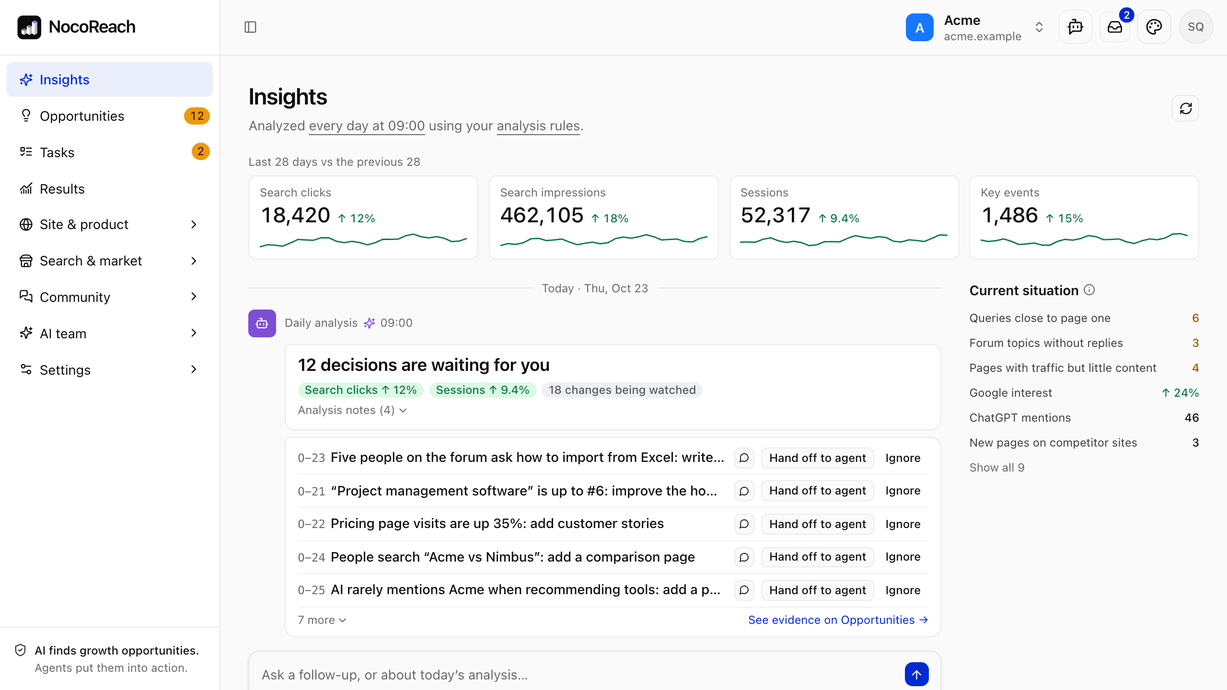
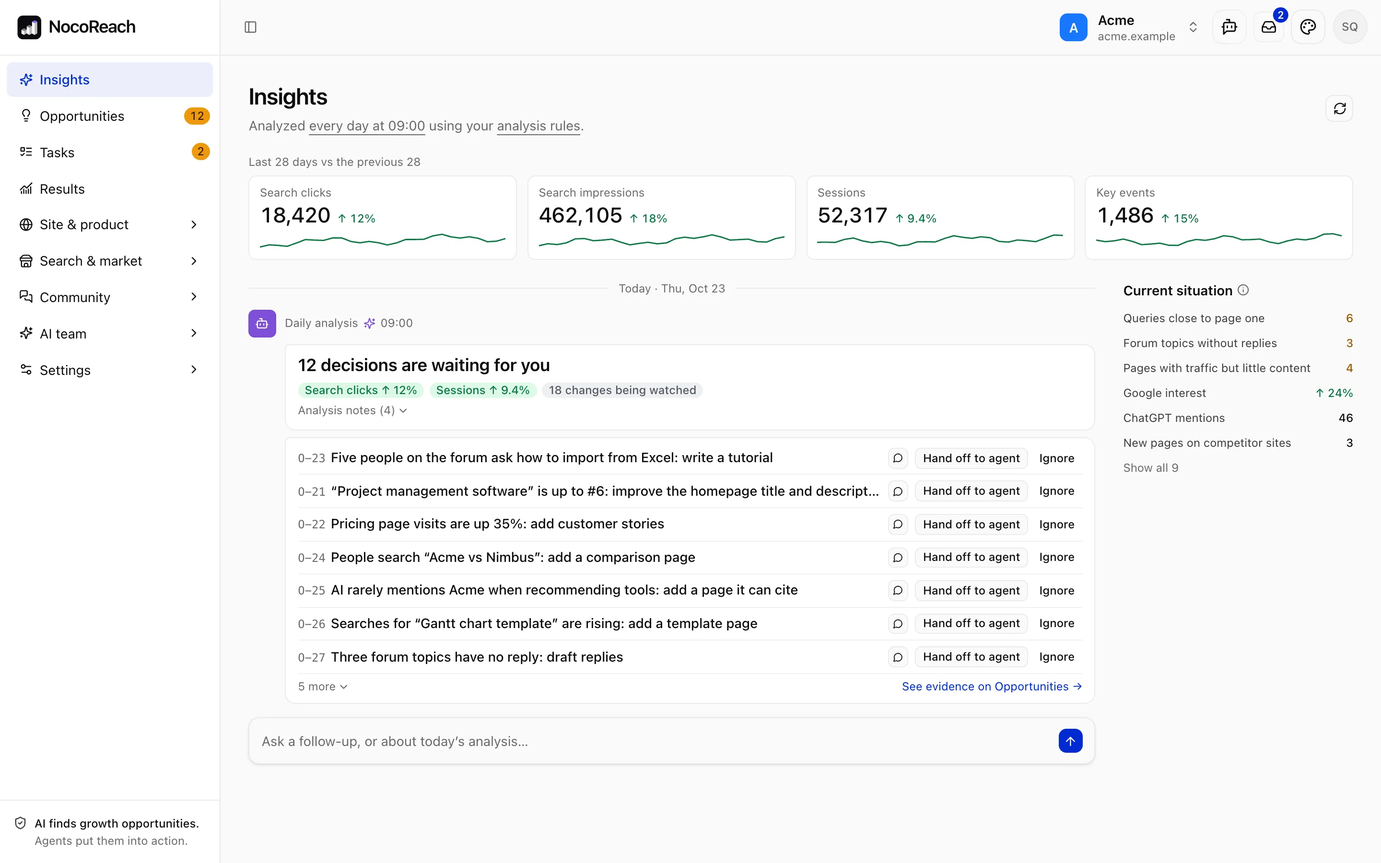
README: screenshot gallery and feature list (#305)
* README: screenshot gallery and feature list

Add a gallery of six whole-window screenshots (Insights, Opportunities,
Tasks, Traffic, Keywords, AI search) as clickable thumbnails, all drawn
from the fictional Acme example used on the website and in the film.
Rewrite the intro and features around what the product does: one place
from keyword research to publishing, daily analysis with AI-assisted rule
tuning, agent execution, review, impact and self-hosting. List the pages
without screenshots.

* README images note, Japanese database sentence, change note

---------

diff --git a/README.ja-JP.md b/README.ja-JP.md
@@ -9,22 +9,49 @@
 <p align="center">AI グロース運用プラットフォーム · NocoBase Core で構築</p>
 
 <p align="center">
+  <a href="LICENSE"><img src="https://img.shields.io/badge/license-Apache--2.0-blue" alt="Apache-2.0"></a>
+  <a href="https://github.com/nocobase/NocoReach/tags"><img src="https://img.shields.io/github/v/tag/nocobase/NocoReach?label=version&sort=semver" alt="version"></a>
+  <a href="https://www.nocobase.com"><img src="https://img.shields.io/badge/built%20on-NocoBase%20Core-1f6feb" alt="Built on NocoBase Core"></a>
+</p>
+
+<p align="center">
   <a href="https://solutions.nocobase.com/reach/"><strong>オンラインで試す</strong></a> · <a href="https://www.nocobase.com/solution-reach/">Web サイト</a> · <a href="README.md">English</a> · <a href="README.zh-CN.md">简体中文</a> · <strong>日本語</strong>
 </p>
 
 https://github.com/user-attachments/assets/7fa9af94-3ce1-4918-841e-07cb9e6869e1
 
-NocoReach は AI グロース運用プラットフォームです。検索や AI 検索からコミュニティ、競合まで 20 以上のデータソースに接続し、取り組む価値のあることを毎日見つけて、エージェントに任せます。変更はすべてあなたがレビューします。
+NocoReach は AI グロース運用プラットフォームです。検索や AI 検索からコミュニティ、競合まで 20 以上のデータソースに接続し、すべてのデータの変化を毎日自動で分析して、データに潜む機会を見つけます。取り組む価値のあるマーケティング施策はエージェントに任せ、変更はあなたがレビューし、公開後は効果を自動で比較します。
 
-| ステップ                | 内容                                                                      |
-| ----------------------- | ------------------------------------------------------------------------- |
-| 1. データを一か所に     | Web サイト、検索、AI 検索、コミュニティ、競合を毎日同期                   |
-| 2. 毎日の分析           | AI がその日の変化を一件ずつ判断し、取り組む価値のあるものを改善機会にする |
-| 3. エージェントに任せる | 確認すれば、複数のタスクが同時に進む                                      |
-| 4. あなたがレビュー     | 記事やページの変更は、承認してから公開                                    |
-| 5. 効果の比較           | 公開から 7 日後と 28 日後に自動で比較                                     |
+## 特長
 
-![インサイト：毎日の分析と、今日判断が必要なこと](https://cdn.jsdelivr.net/gh/nocobase/NocoReach@main/docs/images/readme/insights-en.webp)
+- **ワンストップ**：キーワード調査、データの確認、エージェントへの執筆依頼、レビューと公開、効果の比較まで、ひとつのシステムで完結します。推奨やマーケティング提案は接続したすべてのデータに基づくため、より的確です。
+- **22 のデータソースを一か所に**：GA4、Search Console、キーワードと順位、Google Trends、競合、AI検索（ChatGPT、Google AI Overviews）、GitHub、npm / PyPI / Docker Hub、Discourse、Discord、Slack、Reddit、Hacker News、X、YouTube。足りないデータソースは Coding Agent に開発させられます。
+- **毎日の分析**：44 個の内蔵ルールで変化を見つけ、AI が一件ずつ判断します（対応推奨、経過観察、対応不要）。取り組む価値のあるマーケティング施策は、根拠付きの改善機会になります。ルールの調整は AI が手伝います。各ルールが最近見つけた変化をもとに AI が変更を提案し、確認すると反映されるので、ルールを実際のニーズに合わせられます。
+- **エージェントによる実行**：Claude Code や Codex などのコーディングエージェントが、Runner を通じてあなたのパソコンやサーバー上で動き、複数のタスクを並行して進めます。調査、コンテンツ作成、コンテンツ改善、技術的な修正をカバーする 12 個のプレイブックを内蔵し、編集も AI による新規作成もできます。
+- **人によるレビュー**：記事は読者が見るとおりにプレビューし、ページの変更は変更前後を表示します。承認するまで公開されません。
+- **効果の比較**：公開から 7 日後と 28 日後に、変更したページの検索クリック数とページビューを自動で比較します。
+- **カスタマイズ**：スキル（標準の SKILL.md 形式）、ナレッジ、分析ルール、プレイブックはチームに合わせて変えられます。ソースコードが公開されているので、Coding Agent に必要な部分をカスタマイズさせられます。
+- **セルフホスト**：データは自分のサーバーに保存され、モデルとエージェントは自由に選べます。Apache-2.0 ライセンス。
+
+## スクリーンショット
+
+<table>
+  <tr>
+    <td width="33%" valign="top"><a href="https://cdn.jsdelivr.net/gh/nocobase/NocoReach@main/docs/images/readme/insights-en.webp"><img src="https://cdn.jsdelivr.net/gh/nocobase/NocoReach@main/docs/images/readme/insights-en-thumb.webp" width="240" alt="インサイト"></a><br><b>インサイト</b><br><sub>毎日の分析が、その日の変化を一件ずつ判断</sub></td>
+    <td width="33%" valign="top"><a href="https://cdn.jsdelivr.net/gh/nocobase/NocoReach@main/docs/images/readme/opportunities-en.webp"><img src="https://cdn.jsdelivr.net/gh/nocobase/NocoReach@main/docs/images/readme/opportunities-en-thumb.webp" width="240" alt="改善機会"></a><br><b>改善機会</b><br><sub>すべてに根拠があり、ワンクリックでエージェントへ</sub></td>
+    <td width="33%" valign="top"><a href="https://cdn.jsdelivr.net/gh/nocobase/NocoReach@main/docs/images/readme/tasks-en.webp"><img src="https://cdn.jsdelivr.net/gh/nocobase/NocoReach@main/docs/images/readme/tasks-en-thumb.webp" width="240" alt="タスク"></a><br><b>タスク</b><br><sub>複数のタスクが並行して進む</sub></td>
+  </tr>
+  <tr>
+    <td width="33%" valign="top"><a href="https://cdn.jsdelivr.net/gh/nocobase/NocoReach@main/docs/images/readme/traffic-en.webp"><img src="https://cdn.jsdelivr.net/gh/nocobase/NocoReach@main/docs/images/readme/traffic-en-thumb.webp" width="240" alt="トラフィック"></a><br><b>トラフィック</b><br><sub>GA4 の訪問、流入元、キーイベント</sub></td>
+    <td width="33%" valign="top"><a href="https://cdn.jsdelivr.net/gh/nocobase/NocoReach@main/docs/images/readme/keywords-en.webp"><img src="https://cdn.jsdelivr.net/gh/nocobase/NocoReach@main/docs/images/readme/keywords-en-thumb.webp" width="240" alt="キーワード"></a><br><b>キーワード</b><br><sub>選んでエージェントに任せる</sub></td>
+    <td width="33%" valign="top"><a href="https://cdn.jsdelivr.net/gh/nocobase/NocoReach@main/docs/images/readme/aisearch-en.webp"><img src="https://cdn.jsdelivr.net/gh/nocobase/NocoReach@main/docs/images/readme/aisearch-en-thumb.webp" width="240" alt="AI検索"></a><br><b>AI検索</b><br><sub>他社は出てくるのに自社は出てこない質問をエージェントへ</sub></td>
+  </tr>
+</table>
+
+その他のページ：
+
+- **データ**：ページ、サイト監査、パフォーマンス、トレンド、競合、GitHub、ダウンロード、フォーラム、Hacker News、Reddit、X、Discord、Slack、YouTube
+- **運用**：成果、プレイブック、スキル、ナレッジ、分析ルール、エージェント、メンバー & ロール、データソース
 
 ## はじめに
 
@@ -40,7 +67,7 @@ pnpm nocobase config init
 pnpm dev
 ```
 
-ターミナルに表示されたアドレスを開き、`config.yml` の初期管理者アカウントでサインインします。プロジェクトを作成したら、「設定 › データソース」でデータを接続します。本番環境へのデプロイは[ビルドとデプロイ](docs/APP-TEMPLATE.md)を参照してください。
+ターミナルに表示されたアドレスを開き、`config.yml` の初期管理者アカウントでサインインします。プロジェクトを作成したら、「設定 › データソース」でデータを接続します。本番環境へのデプロイは[ビルドとデプロイ](docs/APP-TEMPLATE.md)を参照してください。デフォルトのデータベースは SQLite です。PostgreSQL と MySQL の準備、設定、検証は[マルチデータベースのデプロイ](docs/DATABASE-DEPLOYMENT.md)を参照してください。
 
 ## ライセンス
 

diff --git a/README.md b/README.md
@@ -9,22 +9,49 @@
 <p align="center">AI growth operations platform · Built on NocoBase Core</p>
 
 <p align="center">
+  <a href="LICENSE"><img src="https://img.shields.io/badge/license-Apache--2.0-blue" alt="Apache-2.0"></a>
+  <a href="https://github.com/nocobase/NocoReach/tags"><img src="https://img.shields.io/github/v/tag/nocobase/NocoReach?label=version&sort=semver" alt="version"></a>
+  <a href="https://www.nocobase.com"><img src="https://img.shields.io/badge/built%20on-NocoBase%20Core-1f6feb" alt="Built on NocoBase Core"></a>
+</p>
+
+<p align="center">
   <a href="https://solutions.nocobase.com/reach/"><strong>Try it online</strong></a> · <a href="https://www.nocobase.com/solution-reach/">Website</a> · <strong>English</strong> · <a href="README.zh-CN.md">简体中文</a> · <a href="README.ja-JP.md">日本語</a>
 </p>
 
 https://github.com/user-attachments/assets/7fa9af94-3ce1-4918-841e-07cb9e6869e1
 
-NocoReach is an AI growth operations platform. It connects 20+ data sources, from search and AI search to community and competitors, finds what's worth doing every day, and hands it to agents. You review every change.
+NocoReach is an AI growth operations platform. It connects 20+ data sources, from search and AI search to community and competitors, analyzes every change in the data each day, finds the opportunities in it, and hands the marketing actions worth taking to agents. You review the work before it goes live, and the impact is compared after launch.
 
-| Step                     | What happens                                                        |
-| ------------------------ | ------------------------------------------------------------------- |
-| 1. All data in one place | Site, search, AI search, community and competitors, synced daily    |
-| 2. Daily analysis        | AI weighs each of the day's changes and writes up those worth doing |
-| 3. Handed to agents      | Once you confirm, many tasks move at once                           |
-| 4. Your review           | Articles and page changes go live only once you approve             |
-| 5. Impact                | Compared automatically on days 7 and 28                             |
+## Features
 
-![Insights: the daily analysis and what needs your decision today](https://cdn.jsdelivr.net/gh/nocobase/NocoReach@main/docs/images/readme/insights-en.webp)
+- **All in one place**: Research keywords, read the data, hand the writing to an agent, review and publish, and compare the impact, all in one system. Recommendations and marketing suggestions draw on every connected source, which makes them more precise.
+- **22 data sources, one store**: GA4, Search Console, keywords and rankings, Google Trends, competitors, AI search (ChatGPT, Google AI Overviews), GitHub, npm / PyPI / Docker Hub, Discourse, Discord, Slack, Reddit, Hacker News, X and YouTube. Missing one? Have a coding agent build it.
+- **Daily analysis**: 44 built-in rules find the changes; AI gives each one a verdict (act on it, watch it, or no action needed) and writes up the marketing actions worth taking as opportunities with evidence. AI helps you tune the rules: it looks at what each rule found recently and proposes changes that apply once you confirm, so the rules fit what you actually need.
+- **Agent execution**: Coding agents such as Claude Code and Codex run through a Runner on your computer or servers, many tasks at once. 12 built-in playbooks cover research, content creation, content optimization and technical fixes; change them, or have AI draft new ones.
+- **Human review**: Articles are previewed as readers will see them and page changes show before and after; nothing goes live until you approve.
+- **Impact**: On days 7 and 28 after launch, each changed page's search clicks and views are compared automatically.
+- **Customizable**: Skills (the common SKILL.md format), project knowledge, analysis rules and playbooks all follow your team; the source is open, so a coding agent can customize the rest.
+- **Self-hosted**: Your data stays on your servers, with the models and agents of your choice. Apache-2.0.
+
+## Screenshots
+
+<table>
+  <tr>
+    <td width="33%" valign="top"><a href="https://cdn.jsdelivr.net/gh/nocobase/NocoReach@main/docs/images/readme/insights-en.webp"><img src="https://cdn.jsdelivr.net/gh/nocobase/NocoReach@main/docs/images/readme/insights-en-thumb.webp" width="240" alt="Insights"></a><br><b>Insights</b><br><sub>The daily analysis weighs each of the day's changes</sub></td>
+    <td width="33%" valign="top"><a href="https://cdn.jsdelivr.net/gh/nocobase/NocoReach@main/docs/images/readme/opportunities-en.webp"><img src="https://cdn.jsdelivr.net/gh/nocobase/NocoReach@main/docs/images/readme/opportunities-en-thumb.webp" width="240" alt="Opportunities"></a><br><b>Opportunities</b><br><sub>Evidence for each, one click to an agent</sub></td>
+    <td width="33%" valign="top"><a href="https://cdn.jsdelivr.net/gh/nocobase/NocoReach@main/docs/images/readme/tasks-en.webp"><img src="https://cdn.jsdelivr.net/gh/nocobase/NocoReach@main/docs/images/readme/tasks-en-thumb.webp" width="240" alt="Tasks"></a><br><b>Tasks</b><br><sub>Many tasks moving at once</sub></td>
+  </tr>
+  <tr>
+    <td width="33%" valign="top"><a href="https://cdn.jsdelivr.net/gh/nocobase/NocoReach@main/docs/images/readme/traffic-en.webp"><img src="https://cdn.jsdelivr.net/gh/nocobase/NocoReach@main/docs/images/readme/traffic-en-thumb.webp" width="240" alt="Traffic"></a><br><b>Traffic</b><br><sub>GA4 visits, sources and key events</sub></td>
+    <td width="33%" valign="top"><a href="https://cdn.jsdelivr.net/gh/nocobase/NocoReach@main/docs/images/readme/keywords-en.webp"><img src="https://cdn.jsdelivr.net/gh/nocobase/NocoReach@main/docs/images/readme/keywords-en-thumb.webp" width="240" alt="Keywords"></a><br><b>Keywords</b><br><sub>Tick keywords and hand them to an agent</sub></td>
+    <td width="33%" valign="top"><a href="https://cdn.jsdelivr.net/gh/nocobase/NocoReach@main/docs/images/readme/aisearch-en.webp"><img src="https://cdn.jsdelivr.net/gh/nocobase/NocoReach@main/docs/images/readme/aisearch-en-thumb.webp" width="240" alt="AI search"></a><br><b>AI search</b><br><sub>Questions where others appear and you don't, to an agent</sub></td>
+  </tr>
+</table>
+
+More pages:
+
+- **Data**: Pages, Site audit, Performance, Trends, Competitors, GitHub, Downloads, Forum, Hacker News, Reddit, X, Discord, Slack, YouTube
+- **Operations**: Results, Playbooks, Skills, Knowledge, Analysis rules, Agent, Members & roles, Data sources
 
 ## Getting started
 

diff --git a/README.zh-CN.md b/README.zh-CN.md
@@ -9,22 +9,49 @@
 <p align="center">AI 增长运营平台 · 基于 NocoBase Core 构建</p>
 
 <p align="center">
+  <a href="LICENSE"><img src="https://img.shields.io/badge/license-Apache--2.0-blue" alt="Apache-2.0"></a>
+  <a href="https://github.com/nocobase/NocoReach/tags"><img src="https://img.shields.io/github/v/tag/nocobase/NocoReach?label=version&sort=semver" alt="version"></a>
+  <a href="https://www.nocobase.com"><img src="https://img.shields.io/badge/built%20on-NocoBase%20Core-1f6feb" alt="Built on NocoBase Core"></a>
+</p>
+
+<p align="center">
   <a href="https://solutions-cn.nocobase.com/reach/"><strong>在线体验</strong></a> · <a href="https://www.nocobase.com/solution-reach/">官网介绍</a> · <a href="README.md">English</a> · <strong>简体中文</strong> · <a href="README.ja-JP.md">日本語</a>
 </p>
 
 https://github.com/user-attachments/assets/25e0c3ba-ddd5-4dad-be9c-179bc145cd9b
 
-NocoReach 是 AI 增长运营平台，接入网站、搜索、AI 搜索、社区、社交媒体和竞品等 20 多个数据源：每天找出值得做的事，交给 Agent 执行，改动由你审核，上线后自动对比效果。
+NocoReach 是 AI 增长运营平台，接入网站、搜索、AI 搜索、社区、社交媒体和竞品等 20 多个数据源，每天自动分析所有数据的变化，找出数据里的机会，把值得做的市场动作交给 Agent 执行；改动由你审核，上线后自动对比效果。
 
-| 步骤            | 做什么                                    |
-| --------------- | ----------------------------------------- |
-| 1. 数据汇在一处 | 网站、搜索、AI 搜索、社区和竞品，每天同步 |
-| 2. 每日分析     | AI 逐条判断当天的变化，把值得做的写成机会 |
-| 3. 交给 Agent   | 你确认后，多项任务同时推进                |
-| 4. 由你审核     | 文章和页面改动，通过后才发布              |
-| 5. 效果对比     | 上线后第 7、28 天自动对比                 |
+## 特点
 
-![洞察：每日分析和今天要你决定的事](https://cdn.jsdelivr.net/gh/nocobase/NocoReach@main/docs/images/readme/insights-zh.webp)
+- **一站式完成**：查找关键词、查看数据、交给 Agent 撰写、审核发布和效果对比，都在同一个系统中完成。推荐与市场建议综合全部接入的数据，更加精准。
+- **22 个数据源，统一存储**：GA4、Search Console、关键词与排名、Google Trends、竞品、AI 搜索（ChatGPT、Google AI 概览）、GitHub、npm / PyPI / Docker Hub、Discourse、Discord、Slack、Reddit、Hacker News、X、YouTube、Bilibili、小红书。缺的数据源，可以让 Coding Agent 开发。
+- **每日分析**：44 条内置规则找出变化，AI 逐条给出结论（建议处理、建议观察、无需处理），值得做的市场动作写成带依据的机会。规则可以让 AI 帮忙调整：AI 参考各条规则最近找出的变化提出修改，你确认后生效，让规则更符合你的实际需求。
+- **Agent 执行**：Claude Code、Codex 等编码 Agent 通过 Runner 运行在你的电脑或服务器上，多项任务并行。内置 12 种做法，覆盖调研、内容创作、内容优化和技术修复；可以修改，也可以让 AI 起草新的做法。
+- **人工审核**：文章按读者看到的样子预览，页面改动显示前后对比，通过后才发布。
+- **效果对比**：上线后第 7、28 天，自动对比改动页面的搜索点击和浏览量。
+- **可定制**：Skills（通用 SKILL.md 格式）、项目知识、分析规则和做法都可以按团队调整；源码开放，可以让 Coding Agent 按需求定制。
+- **自托管**：数据存在你自己的服务器上，模型与 Agent 自由选择，Apache-2.0 开源。
+
+## 界面
+
+<table>
+  <tr>
+    <td width="33%" valign="top"><a href="https://cdn.jsdelivr.net/gh/nocobase/NocoReach@main/docs/images/readme/insights-zh.webp"><img src="https://cdn.jsdelivr.net/gh/nocobase/NocoReach@main/docs/images/readme/insights-zh-thumb.webp" width="240" alt="洞察"></a><br><b>洞察</b><br><sub>每日分析逐条判断当天的变化</sub></td>
+    <td width="33%" valign="top"><a href="https://cdn.jsdelivr.net/gh/nocobase/NocoReach@main/docs/images/readme/opportunities-zh.webp"><img src="https://cdn.jsdelivr.net/gh/nocobase/NocoReach@main/docs/images/readme/opportunities-zh-thumb.webp" width="240" alt="机会"></a><br><b>机会</b><br><sub>每个机会都附依据，一键交给 Agent</sub></td>
+    <td width="33%" valign="top"><a href="https://cdn.jsdelivr.net/gh/nocobase/NocoReach@main/docs/images/readme/tasks-zh.webp"><img src="https://cdn.jsdelivr.net/gh/nocobase/NocoReach@main/docs/images/readme/tasks-zh-thumb.webp" width="240" alt="任务"></a><br><b>任务</b><br><sub>多项任务并行推进</sub></td>
+  </tr>
+  <tr>
+    <td width="33%" valign="top"><a href="https://cdn.jsdelivr.net/gh/nocobase/NocoReach@main/docs/images/readme/traffic-zh.webp"><img src="https://cdn.jsdelivr.net/gh/nocobase/NocoReach@main/docs/images/readme/traffic-zh-thumb.webp" width="240" alt="访问"></a><br><b>访问</b><br><sub>GA4 访问、来源和关键事件</sub></td>
+    <td width="33%" valign="top"><a href="https://cdn.jsdelivr.net/gh/nocobase/NocoReach@main/docs/images/readme/keywords-zh.webp"><img src="https://cdn.jsdelivr.net/gh/nocobase/NocoReach@main/docs/images/readme/keywords-zh-thumb.webp" width="240" alt="关键词"></a><br><b>关键词</b><br><sub>勾选关键词，交给 Agent</sub></td>
+    <td width="33%" valign="top"><a href="https://cdn.jsdelivr.net/gh/nocobase/NocoReach@main/docs/images/readme/aisearch-zh.webp"><img src="https://cdn.jsdelivr.net/gh/nocobase/NocoReach@main/docs/images/readme/aisearch-zh-thumb.webp" width="240" alt="AI 搜索"></a><br><b>AI 搜索</b><br><sub>别人出现、你没有的问题，交给 Agent</sub></td>
+  </tr>
+</table>
+
+其他页面：
+
+- **数据**：页面、审计、搜索表现、趋势、竞品、GitHub、下载量、论坛、Hacker News、Reddit、X、Discord、Slack、YouTube、Bilibili、小红书
+- **运营**：成果、做法、Skills、项目知识、分析规则、Agent、成员与角色、数据接入
 
 ## 快速开始
 

diff --git a/docs/DEVELOPMENT.md b/docs/DEVELOPMENT.md
@@ -257,7 +257,7 @@ Read the [application upgrade Skill](../.agents/skills/nocobase-app-upgrade/SKIL
 - The full template source marker is `nocobase.defaultTemplateVersion: 1.0.0-beta.68`; see the three-way upgrade records for [beta.67](TEMPLATE-UPGRADE-beta67.md) and [beta.68](TEMPLATE-UPGRADE-beta68.md). Do not overwrite this application with a fresh template or advance the marker without a corresponding source merge.
 - The login preparation fix from upstream [#10986](https://github.com/nocobase/nocobase/pull/10986) is selectively merged from Default Template `1.0.0-beta.69`; the full source marker remains `beta.68`. Framework packages now follow the `@nocobase/*` versions in Default Template `1.0.0-beta.76` (App Server `3.0.0-beta.2`, App Client `4.0.0-beta.1` without Refine, i18n `2.0.0-beta.1`, Notification `2.0.0-beta.0`), installed together with Agents `1.0.0-beta.18` without merging that template's source. Demo Mode `0.2.0-beta.5` uses App Server `3.0.0-beta.4`, App Client `4.0.0-beta.4`, App CLI `1.0.0-beta.30`, DB `1.0.0-beta.23`, Authentication `2.0.0-beta.15`, Authorization `1.0.0-beta.33`, Users `2.0.0-beta.11`, Agents `1.0.0-beta.29`, File `1.0.0-beta.27` and Notification `2.0.0-beta.1`. Runner `0.1.0-beta.21` and CLI Client `0.1.0-beta.17` share Agent Protocol `0.1.0-beta.16` (wire protocol 15). Install and deduplicate these coordinated dependencies together; the local mock plugin must resolve the host's App Client and Server instances. Verify demo data, model/chat, Runner simulation, visitor cookies and preferences with the integration tests. These dependency updates do not advance the template source marker. Keep `react-i18next` pinned consistently in the root manifest and workspace override so the host and mock plugin resolve one i18n/App Client identity. Keep the local mock plugin's framework peers aligned and verify it resolves the same App Client instance; installing framework changes in separate passes can retain incompatible peer contexts. See [the integration record](AUTH-SESSION-PREPARATION.md) before the next full template merge.
 - `README.md` and its `README.zh-CN.md` / `README.ja-JP.md` translations introduce the product and are application-owned. The template's README lives in [APP-TEMPLATE.md](APP-TEMPLATE.md); merge upstream README changes there.
-- README images are the NocoBase website's NocoReach figures (fictional Acme data, rendered from the product's compiled CSS by the website's `html/_src/reach` scripts), copied as WebP into `docs/images/readme/`; refresh them from there rather than capturing the app. They and `public/assets/` are linked through jsDelivr (`https://cdn.jsdelivr.net/gh/nocobase/NocoReach@main/<path>`), because GitHub serves repository images from `raw.githubusercontent.com`, which is often unreachable from mainland China. After replacing an image under the same name, purge it at `https://purge.jsdelivr.net/gh/nocobase/NocoReach@main/<path>`.
+- README images are whole-window renders (1440×900 at 2×) of the NocoBase website's NocoReach figures: fictional Acme data drawn with the product's compiled CSS by the website's `html/_src/reach` scripts, wrapped in the app shell, with Traffic and Keywords drawn the same way after the product's pages. They are saved as WebP in `docs/images/readme/`, each with a 960×600 `-thumb.webp` that the README gallery shows and links to the full image; Japanese reuses the English images. Refresh them by rendering, not by capturing the app or the demo, so every screenshot shows the same example. They and `public/assets/` are linked through jsDelivr (`https://cdn.jsdelivr.net/gh/nocobase/NocoReach@main/<path>`), because GitHub serves repository images from `raw.githubusercontent.com`, which is often unreachable from mainland China. After replacing an image under the same name, purge it at `https://purge.jsdelivr.net/gh/nocobase/NocoReach@main/<path>`.
 - The README intro videos are the website's films (`nocoreach-intro-en|zh.mp4`) re-encoded to 1280×720 WebM under 10 MB, GitHub's attachment limit for this organization's plan, with the duration and cues a browser recording lacks. They are uploaded as GitHub attachments (dropped into a new issue's comment box, never submitted), and the README puts each `github.com/user-attachments/assets/…` URL on its own line so GitHub renders a player. Re-upload and replace the URLs when the film changes.
 - Hub CLI and official Workflow were removed; do not restore them for releases or business features. AI employee, local Agent, and configuration references in old port records are historical.
 - Agents `1.0.0-beta.29`, Runner `0.1.0-beta.21` and CLI Client `0.1.0-beta.17` are pinned. The application CLI release is `1.0.0-beta.72`; the template source marker remains unchanged. Runner and CLI Client use Agent Protocol `0.1.0-beta.16` (wire protocol 15), retaining output-block previews and adding queued conversation input. Deploy the application before updating runners: a runner newer than the server's supported protocol cannot claim work. Existing supported runners can continue basic tasks during rollout, but need the new Runner for output-block previews. Agents migrations retire the conversation start/fallback/restore operations and add `showInChatList`; conversations created before `1.0.0-beta.15` stay readable but read-only, and their owner can still stop an unfinished run. Keep historical IDs and snapshots; invalid project/task defaults require explicit reselection, never silently map them to a discovered agent. Application response types should name tool IDs as strings instead of leaking the plugin's transitive `AgentTool` type into generated declarations. Drain active runs and back up the database before deployment.

diff --git a/changelog/unreleased/docs-readme-gallery.md b/changelog/unreleased/docs-readme-gallery.md
@@ -1,0 +1,4 @@
+## README: screenshot gallery and a feature list
+
+- The English, Chinese and Japanese READMEs list the product's features (one place from keyword research to publishing, 22 data sources, daily analysis with AI-assisted rule tuning, agent execution, review, impact, customization, self-hosting) and show six screenshots as clickable thumbnails: Insights, Opportunities, Tasks, Traffic, Keywords and AI search, with the other pages listed below them.
+- The screenshots are whole-window renders of the website's Acme example in `docs/images/readme/`, each with a `-thumb.webp`; the Japanese README links the English images and gains the multi-database sentence the other two have.
